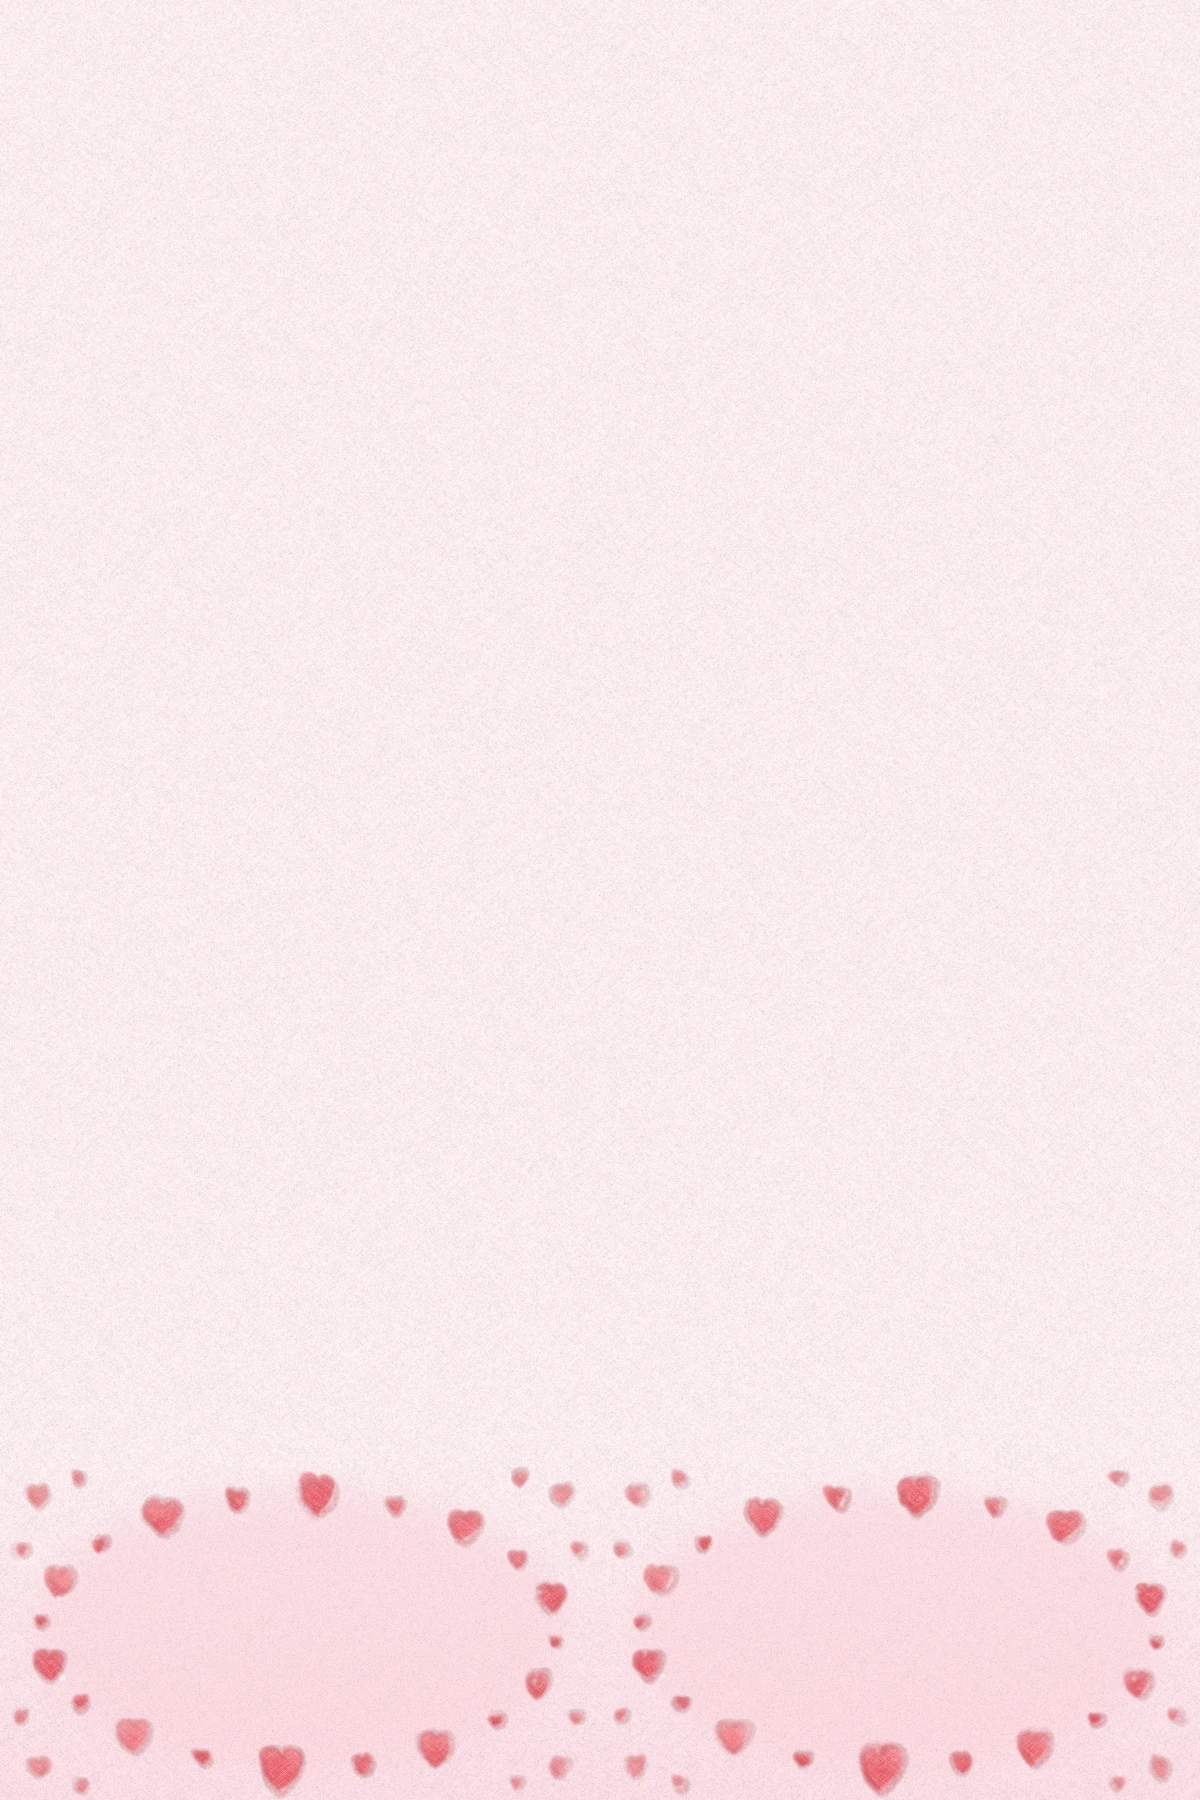
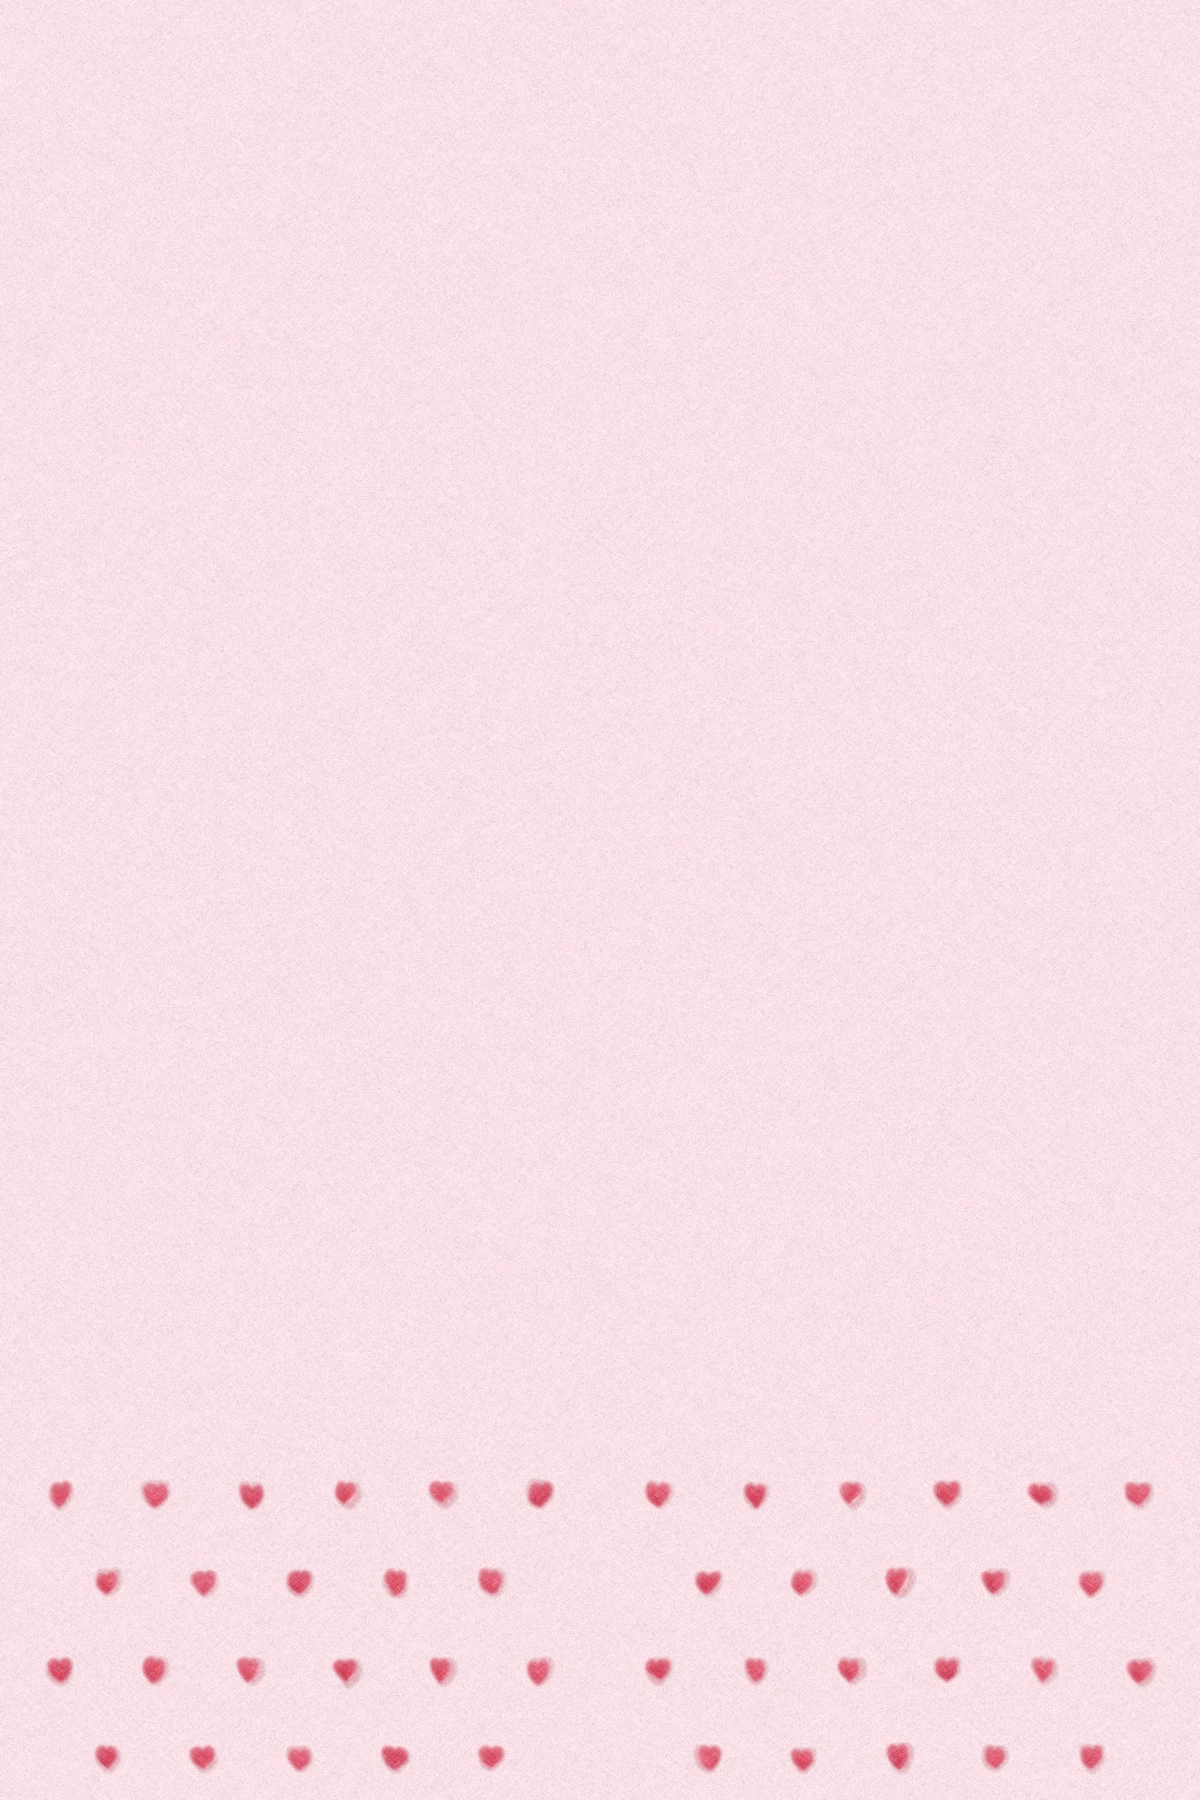
Replace heart frames (portrait + landscape); readable text on heart pattern

diff --git a/index.html b/index.html
@@ -494,7 +494,7 @@
       school:  { cx: 1600, cy: 305, width: 330 },   // 깃발·풍선(위)과 가게·선물(아래) 사이
       space:   { cx: 1595, cy: 300, width: 330 },   // 행성(위)과 로켓·토끼(아래) 사이
       animals: { cx: 1595, cy: 318, width: 330 },   // 나뭇가지(위)와 동물들(아래) 사이
-      heart:   { cx: 1605, cy: 300, width: 250 }    // 하트 타원 안쪽 (폭이 좁음)
+      heart:   { cx: 1608, cy: 300, width: 300 }    // 하트 무늬 줄 가운데
     };
 
     // 방향별 그림 배치. 가로는 세로 프레임의 사진 크기(485×655)를 눕힌 655×485 로 쓰고,
@@ -964,7 +964,7 @@
       animals: { paper: "#fcfaf7", sky: "#e6efd2", back: "#f6efdf", front: "#cfe3a8", line: "#6b4a2e", spark: "#ffc048",
                  main: "#5c3d2e", sub: "#8b5e3c" },
       heart:   { paper: "#fff9fb", sky: "#ffd6e2", back: "#fff0f4", front: "#ffc2d4", line: "#c2255c", spark: "#ff7597",
-                 main: "#d6336c", sub: "#f783ac" }
+                 main: "#9d174d", sub: "#be185d", halo: true }
     };
 
     // 폭 300px 주기로 반복되는 뭉게구름 띠 (가운데로 반 잘라도 양쪽이 똑같음)
@@ -1226,15 +1226,27 @@
         const y1 = L.landscape ? b.cy - 40 : 1588;
         const y2 = L.landscape ? b.cy + 22 : 1654;
         const y3 = L.landscape ? b.cy + 68 : 1706;
+        // 하트 무늬 위에서도 글씨가 또렷하도록 연한 테두리(후광)를 먼저 그림 (하트 테마만)
+        const put = (str, x, y) => {
+          if (scene.halo) {
+            ctx.save();
+            ctx.lineJoin = "round";
+            ctx.lineWidth = 9;
+            ctx.strokeStyle = "rgba(255, 244, 248, 0.92)";
+            ctx.strokeText(str, x, y);
+            ctx.restore();
+          }
+          ctx.fillText(str, x, y);
+        };
         ctx.fillStyle = mainTextColor;
         fitText("고척초등학교", sz[0], "bold");
-        ctx.fillText("고척초등학교", b.cx, y1);
+        put("고척초등학교", b.cx, y1);
         fitText("♥기버데이♥", sz[1], "bold");
-        ctx.fillText("♥기버데이♥", b.cx, y2);
+        put("♥기버데이♥", b.cx, y2);
 
         ctx.fillStyle = subTextColor;
         fitText("2026.11.19", sz[2], "bold");
-        ctx.fillText("2026.11.19", b.cx, y3);
+        put("2026.11.19", b.cx, y3);
 
         // 학교 로고 (logo.png 가 있으면 세로 모드에서 문구 위에 삽입)
         if (!L.landscape) drawSchoolLogo(ctx, b.cx);
